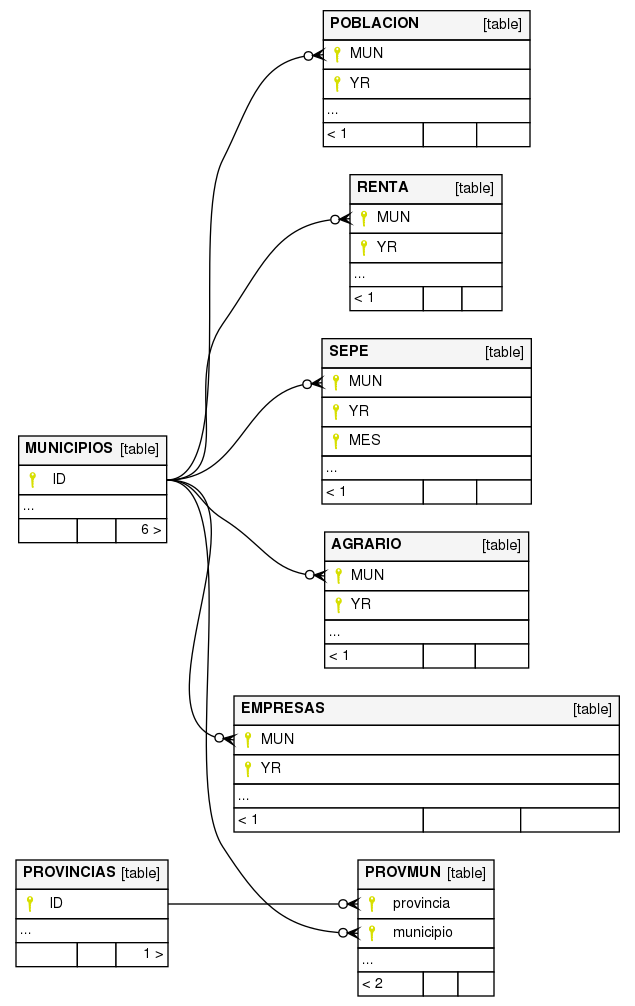
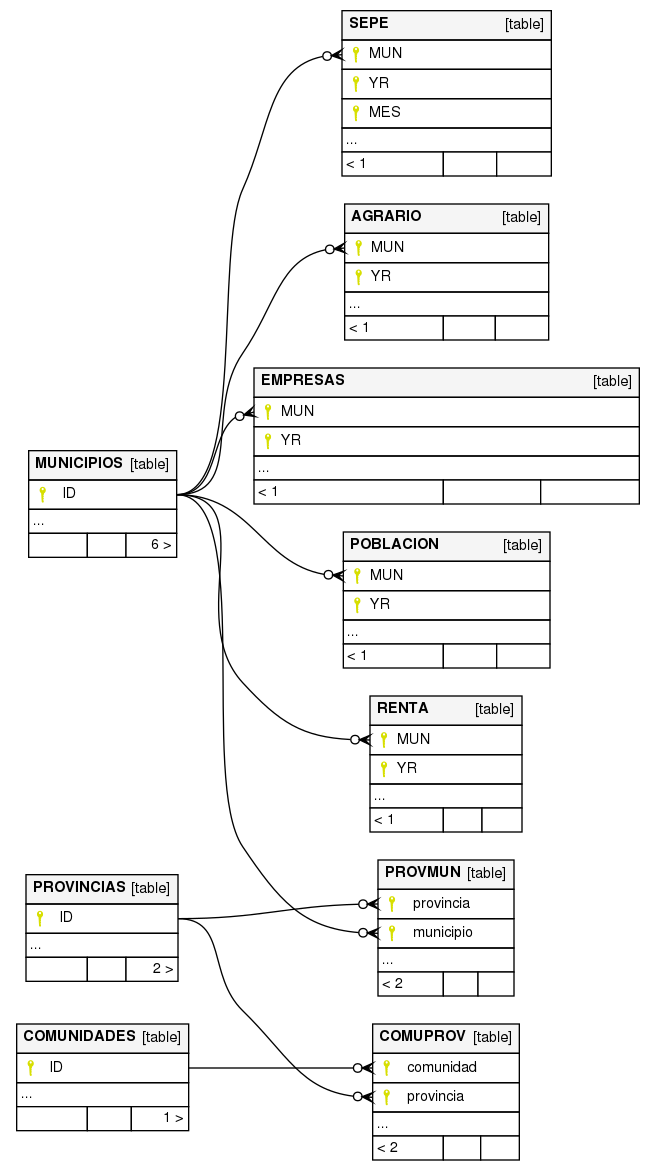
Integrar comunidades

diff --git a/release.py b/release.py
@@ -58,8 +58,11 @@ md.close()
 with open("_out/clean_spatialite.sql", "w") as f:
     f.write(dedent('''
         .output _out/create.sql
+        SELECT sql || ';' FROM sqlite_master WHERE type = 'table' AND name = 'COMUNIDADES';
         SELECT sql || ';' FROM sqlite_master WHERE type = 'table' AND name = 'PROVINCIAS';
         SELECT sql || ';' FROM sqlite_master WHERE type = 'table' AND name = 'MUNICIPIOS';
+        .mode insert COMUNIDADES
+        select ID, nombre, ST_Y(point), ST_X(point) from COMUNIDADES;
         .mode insert PROVINCIAS
         select ID, nombre, ST_Y(point), ST_X(point) from PROVINCIAS;
         .mode insert MUNICIPIOS
@@ -69,7 +72,7 @@ with open("_out/clean_spatialite.sql", "w") as f:
     for t, in db.select('''
         SELECT name FROM sqlite_master WHERE
         type='table' and upper(name)=name and
-        name not in ('PROVINCIAS', 'MUNICIPIOS', 'CRS_KM')
+        name not in ('COMUNIDADES', 'PROVINCIAS', 'MUNICIPIOS', 'CRS_KM')
         union
         SELECT name FROM sqlite_master WHERE
         type='view' and upper(name)=name
@@ -81,7 +84,7 @@ with open("_out/create.sh", "w") as f:
         #!/bin/bash
         spatialite _out/municipios.db < _out/clean_spatialite.sql
         sed 's/, "geom" MULTIPOLYGON, "point" POINT,/,\\n  lat INTEGER,\\n  lon INTEGER,/g' -i _out/create.sql
-        sed "s/INSERT INTO \\(MUNICIPIOS\\|PROVINCIAS\\) VALUES(\\([0-9][0-9]*\\),/INSERT INTO \\1 VALUES('\\2',/" -i _out/create.sql
+        sed "s/INSERT INTO \\(COMUNIDADES\\|MUNICIPIOS\\|PROVINCIAS\\) VALUES(\\([0-9][0-9]*\\),/INSERT INTO \\1 VALUES('\\2',/" -i _out/create.sql
         rm _out/municipios.db
         sqlite3 _out/municipios.db < _out/create.sql
     ''').strip())

diff --git a/to_web.py b/to_web.py
@@ -4,6 +4,7 @@ import argparse
 import json
 import logging
 import os
+from geojson_rewind import rewind
 
 from core.common import save_js
 from core.create_db import create_db
@@ -27,20 +28,25 @@ def parse_result(r):
     geojson = {'type': 'FeatureCollection', 'features': []}
     for p in r:
         p["nombre"] = p["nombre"].split("/")[-1]
-        js = json.loads(p["geom"])
-        js["properties"] = {"n": p["nombre"], "i": p["ID"]}
-        geojson['features'].append(js)
+        obj = {
+            "type": "Feature",
+            "geometry": json.loads(p["geom"]),
+            "properties": {"n": p["nombre"], "i": p["ID"]}
+        }
+        geojson['features'].append(obj)
+    geojson = rewind(geojson)
     return geojson
 
 
 def create_script(db, t):
-    file = "dataset/geo/"+t+".js"
+    file = "dataset/geo/"+t+".geojson"
     db.save_js(file, sql="select ID, nombre, AsGeoJSON(geom, 4) geom from " +
                t+" order by nombre, id", indent=None, parse_result=parse_result)
 
 
 os.makedirs("dataset/geo", exist_ok=True)
 db = DBshp(args.datos, parse_col=plain_parse_col)
+create_script(db, "comunidades")
 create_script(db, "provincias")
 create_script(db, "municipios")
 db.close()

diff --git a/core/dataset.py b/core/dataset.py
@@ -103,6 +103,7 @@ def getShp(path_glob, ini, end, r_key=4, r_data=5):
         else:
             poli = cascaded_union(poli)
         dShapes[key] = (poli, nombre)
+    dShapes = {k:v for k,v in sorted(dShapes.items(), key=lambda kv:kv[0])}
     return dShapes
 
 
@@ -500,6 +501,11 @@ class Dataset():
                         dtY[mun] = dt
                         years[year] = dtY
         return years
+
+    @property
+    @lru_cache(maxsize=None)
+    def comunidades(self):
+        return getShp("fuentes/fomento/shp/**/recintos*autonomicas*.shp", 2, 4)
 
     @property
     @lru_cache(maxsize=None)

diff --git a/core/create_db.py b/core/create_db.py
@@ -113,6 +113,7 @@ def create_db(salida):
     db = DBshp(salida, parse_col=plain_parse_col, reload=True)
     db.execute("sql/base.sql")
     db.to_table("CAMBIOS", dataset.cambios, to_file="sql/CAMBIOS.sql")
+    insert(db, "comunidades", dataset.comunidades)
     insert(db, "provincias", dataset.provincias)
     insert(db, "municipios", dataset.municipios)
     db.execute("sql/provmun.sql")
